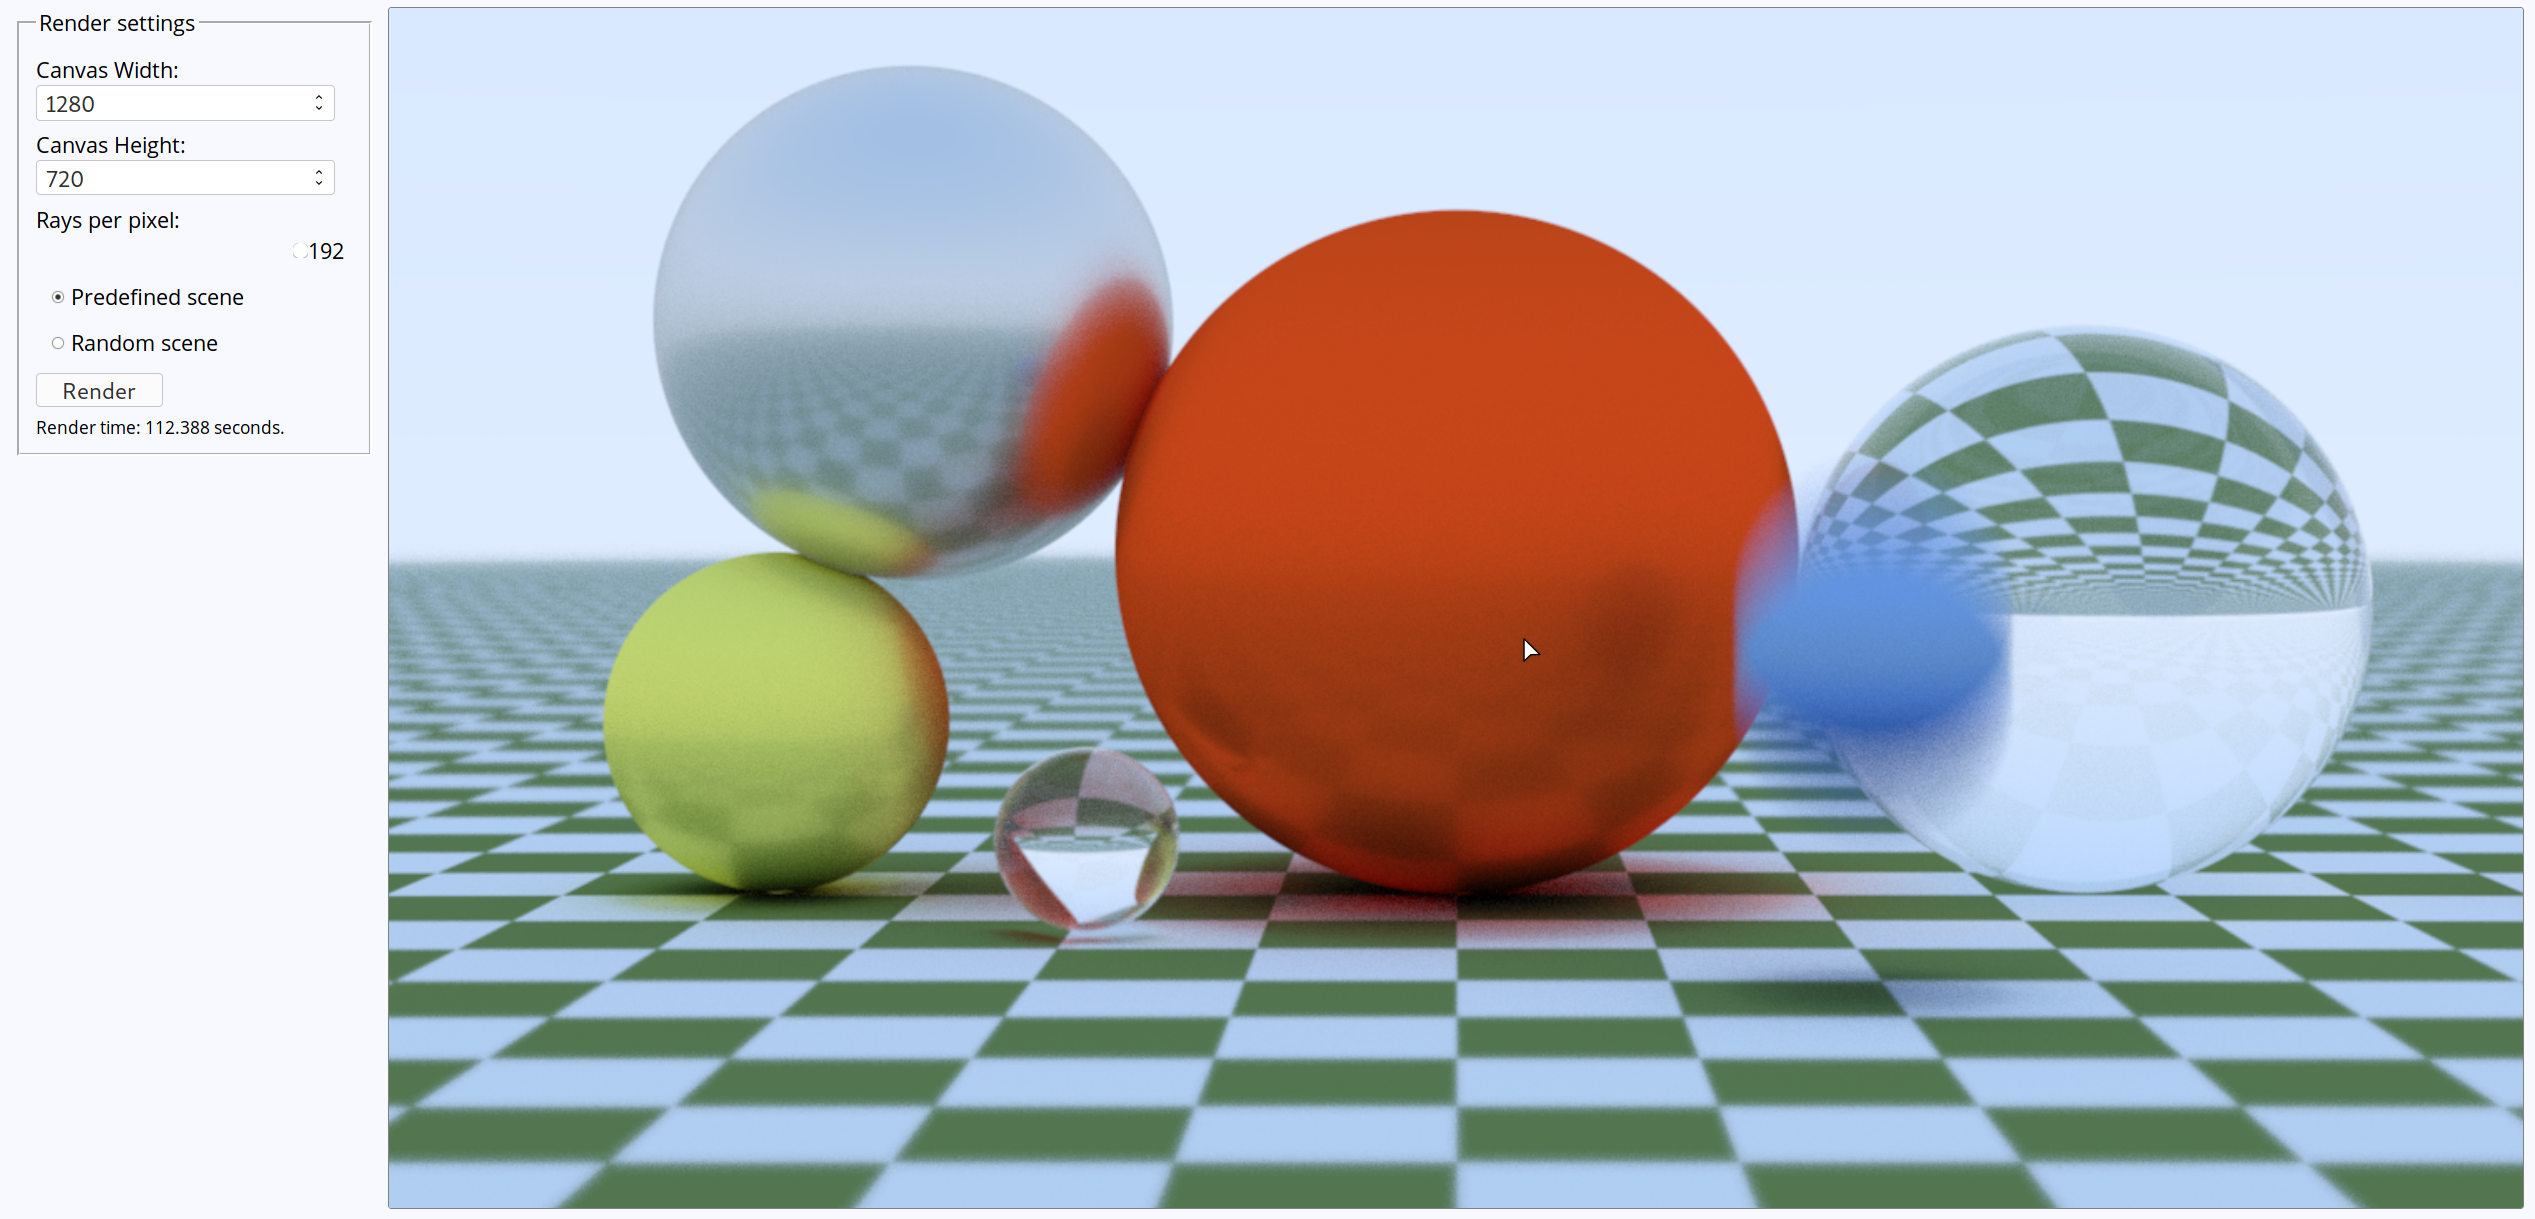
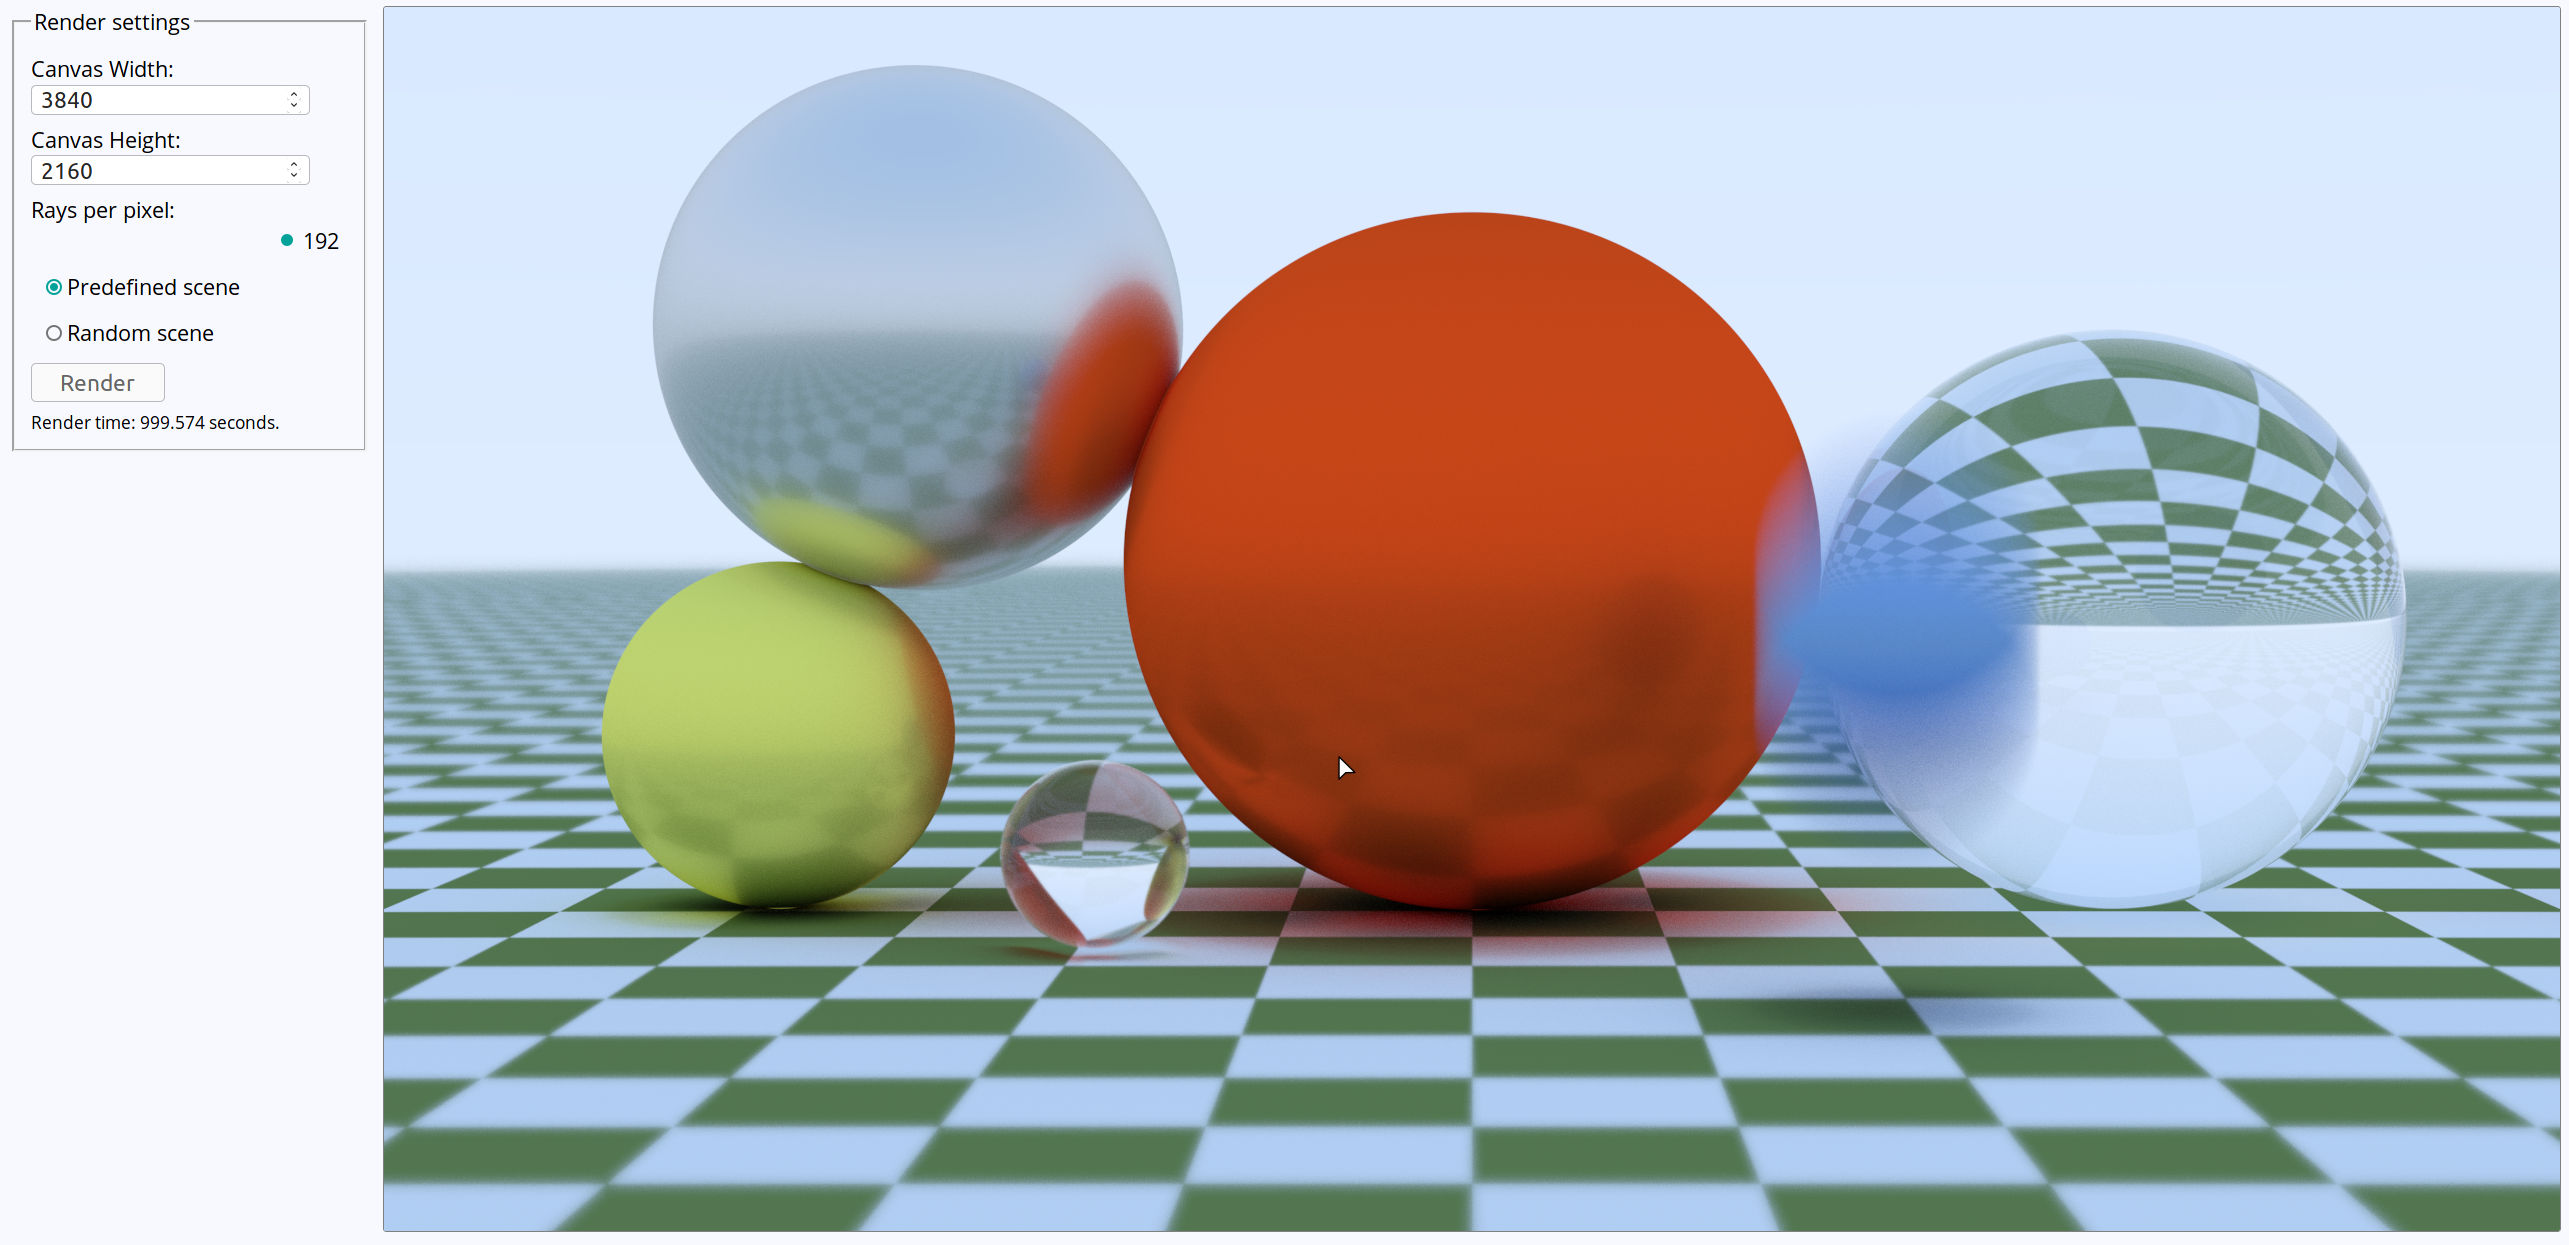
Updated dependencies. Added 4K screenshot. Started to implement Perlin noise texturing.

diff --git a/assets/wasm_tracer.js b/assets/wasm_tracer.js
@@ -3,7 +3,7 @@
     const __exports = {};
 
 
-    __exports.__wbg_random_264632962acb2936 = function() {
+    __exports.__wbg_random_c7298a0d4fe46265 = function() {
         return Math.random();
     };
 
@@ -21,7 +21,7 @@
         return cachedTextDecoder.decode(getUint8Memory().subarray(ptr, ptr + len));
     }
 
-    __exports.__wbg_log_662117e8889465af = function(arg0, arg1) {
+    __exports.__wbg_log_cc3b7d3a27ec68ff = function(arg0, arg1) {
         let varg0 = getStringFromWasm(arg0, arg1);
         console.log(varg0);
     };
@@ -43,7 +43,7 @@
         return idx;
     }
 
-    __exports.__wbg_static_accessor_crypto_d6af21be7bc4961f = function() {
+    __exports.__wbg_static_accessor_crypto_a1e457554975a88e = function() {
         return addHeapObject(crypto);
     };
 
@@ -78,7 +78,7 @@ function getUint32Memory() {
     return cachegetUint32Memory;
 }
 
-__exports.__wbg_getRandomValues_c1a4230a5f916f25 = function(ret, arg0, arg1, arg2) {
+__exports.__wbg_getRandomValues_1c2d90e9ad87d1c0 = function(ret, arg0, arg1, arg2) {
     let varg1 = getArrayU16FromWasm(arg1, arg2);
 
     varg1 = varg1.slice();

diff --git a/src/scene.rs b/src/scene.rs
@@ -19,25 +19,19 @@ pub fn get_predefined_scene(canvas_width: u16, canvas_height: u16) -> (Camera, W
         1000.0,
         Material::Lambertian { texture: Texture::Checkerboard{
             left: Box::new(Texture::Constant{
-            r: 0.2,
-            g: 0.3,
-            b: 0.1}),
+                color: Point3::new(0.2, 0.3, 0.1)}),
             right: Box::new(Texture::Constant{
-            r: 0.9,
-            g: 0.9,
-            b: 0.9}),
+                color: Point3::new(0.9, 0.9, 0.9)})
         }},
         )));
+
         ..add_object(Box::new(Sphere::new(
         Point3::new(0.0, 0.1, -1.0),
         0.6,
         Material::Lambertian {
             texture: Texture::Constant{
-            r: 0.99,
-            g: 0.1,
-            b: 0.01,
-        }},
-    )));
+                color: Point3::new(0.99, 0.1, 0.01)
+                }})));
     ..add_object(Box::new(Sphere::new(
         Point3::new(1.1, 0.0, -1.0),
         0.5,
@@ -57,9 +51,7 @@ pub fn get_predefined_scene(canvas_width: u16, canvas_height: u16) -> (Camera, W
         0.3,
         Material::Lambertian {
             texture: Texture::Constant{
-            r: 0.9,
-            g: 0.9,
-            b: 0.2,
+                color: Point3::new(0.9, 0.9, 0.2)
         }},
     )));
     ..add_object(Box::new(MovingSphere::new(
@@ -70,9 +62,7 @@ pub fn get_predefined_scene(canvas_width: u16, canvas_height: u16) -> (Camera, W
         0.2,
         Material::Lambertian {
             texture: Texture::Constant{
-            r: 0.25,
-            g: 0.45,
-            b: 0.8,
+                color: Point3::new(0.25, 0.45, 0.8)
         }},
     )));
     ..add_object(Box::new(Sphere::new(
@@ -117,7 +107,7 @@ pub fn get_random_scene(
         ..add_object(Box::new(Sphere::new(
         centre_of_the_world,
         1000.0,
-        Material::Lambertian { texture: Texture::Constant{ r, g, b }}
+        Material::Lambertian { texture: Texture::Constant{ color: Point3::new(r, g, b) }}
         )));
     };
 
@@ -130,9 +120,7 @@ pub fn get_random_scene(
             radius,
             Material::Lambertian {
                 texture: Texture::Constant {
-                    r: random(),
-                    g: random(),
-                    b: random(),
+                    color: Point3::new(random(), random(), random())
                 },
             },
         )));

diff --git a/src/materials.rs b/src/materials.rs
@@ -43,9 +43,7 @@ pub fn random_vec_in_unit_sphere() -> Vector3<f32> {
 #[derive(Clone)]
 pub enum Texture {
     Constant {
-        r: f32,
-        g: f32,
-        b: f32,
+        color: Point3<f32>
     },
     Checkerboard {
         left: Box<Texture>,
@@ -53,10 +51,40 @@ pub enum Texture {
     },
 }
 
+struct Perlin {
+    random_vecs : [f32; 256],
+    random_x_direction: [i32; 256],
+    random_y_direction: [i32; 256],
+    random_z_direction: [i32; 256],
+}
+
+impl Perlin {
+    fn noise(&self, point: Point3<f32>) -> f32 {
+        // let u = point.x - point.x.floor();
+        // let v = point.y - point.y.floor();
+        // let w = point.z - point.z.floor();
+
+        let i = ((4.0 * point.x) as i32 & 255) as usize;
+        let j = ((4.0 * point.y) as i32 & 255) as usize;
+        let k = ((4.0 * point.z) as i32 & 255) as usize;
+        let index = (self.random_x_direction[i] ^ self.random_y_direction[j] ^ self.random_z_direction[k]) as usize;
+        self.random_vecs[index]
+    }
+
+    fn perlin_generate() -> Vec<f32> {
+       (0..256).map(|_| random()).collect::<Vec<_>>()
+    }
+
+    fn generate_perm() {
+        let range = (0..255).rev().map(|_| random()).collect::<Vec<_>>();
+
+    }
+}
+
 impl Texture {
     pub fn value(&self, u: f32, v: f32, point: &Point3<f32>) -> Point3<f32> {
         match self {
-            Texture::Constant { r, g, b } => Point3::new(*r, *g, *b),
+            Texture::Constant { color } => *color,
             Texture::Checkerboard { left, right } => {
                 let sines =
                     f32::sin(10.0 * point.x) * f32::sin(10.0 * point.y) * f32::sin(10.0 * point.z);
@@ -70,6 +98,8 @@ impl Texture {
         }
     }
 }
+
+
 
 #[derive(Clone)]
 pub enum Material {
